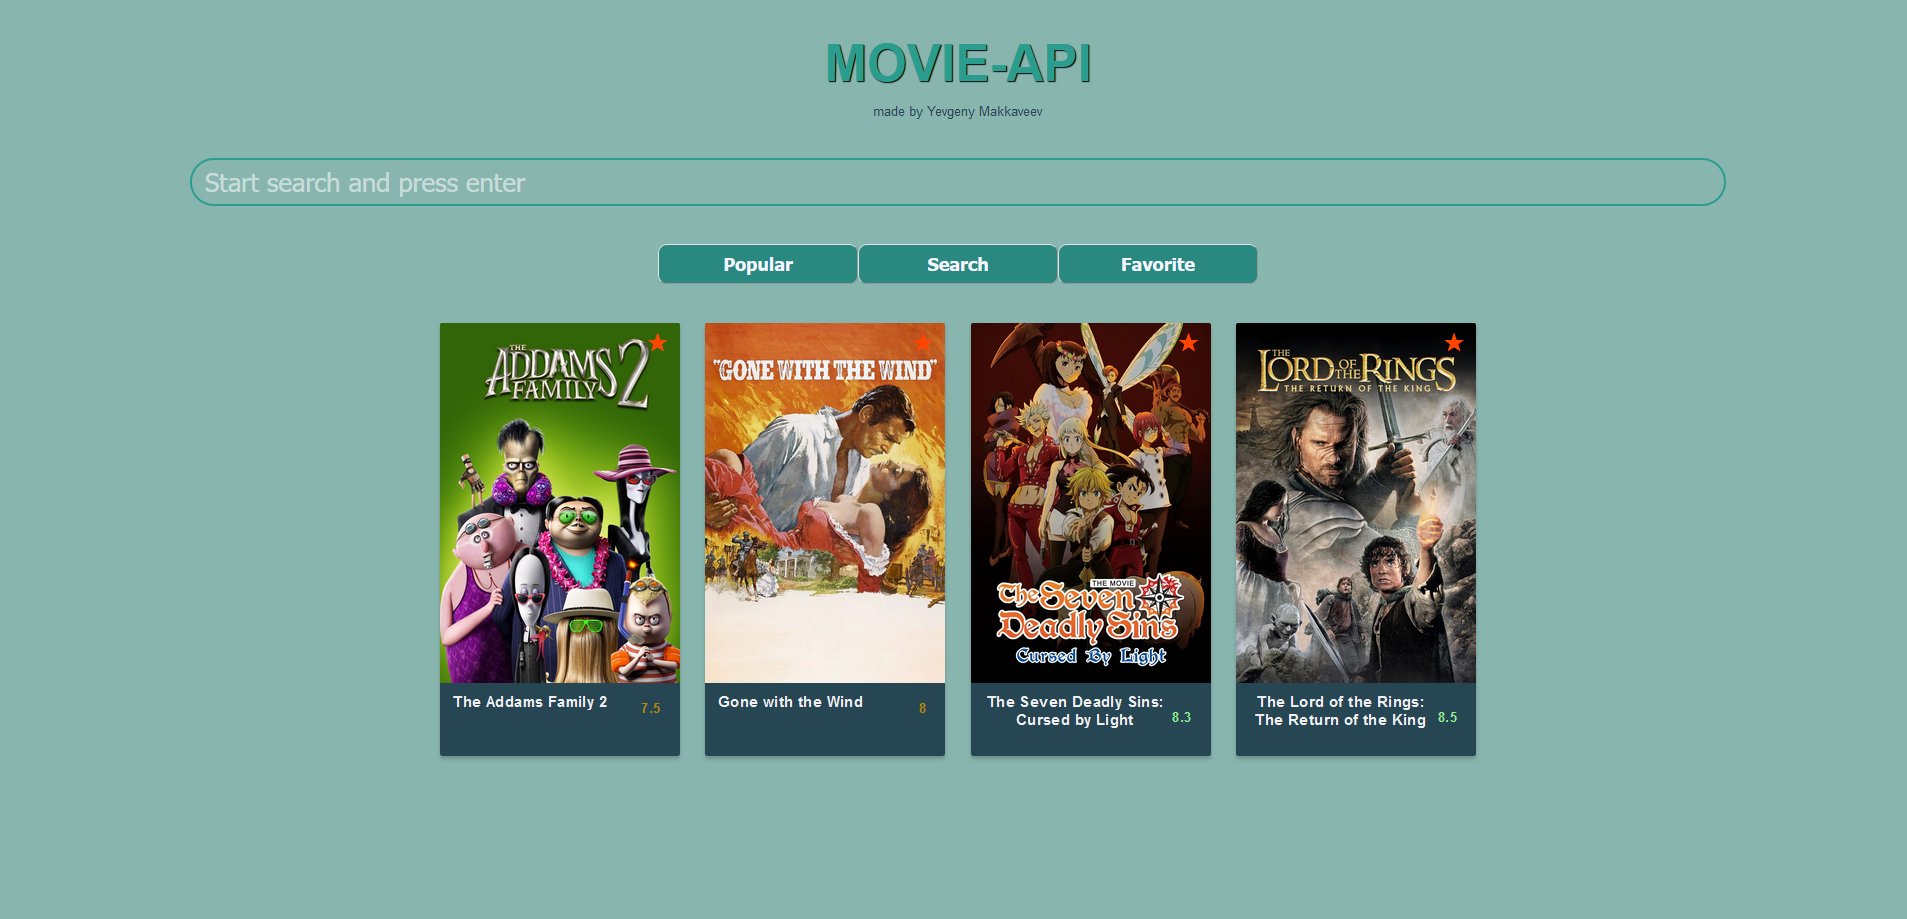
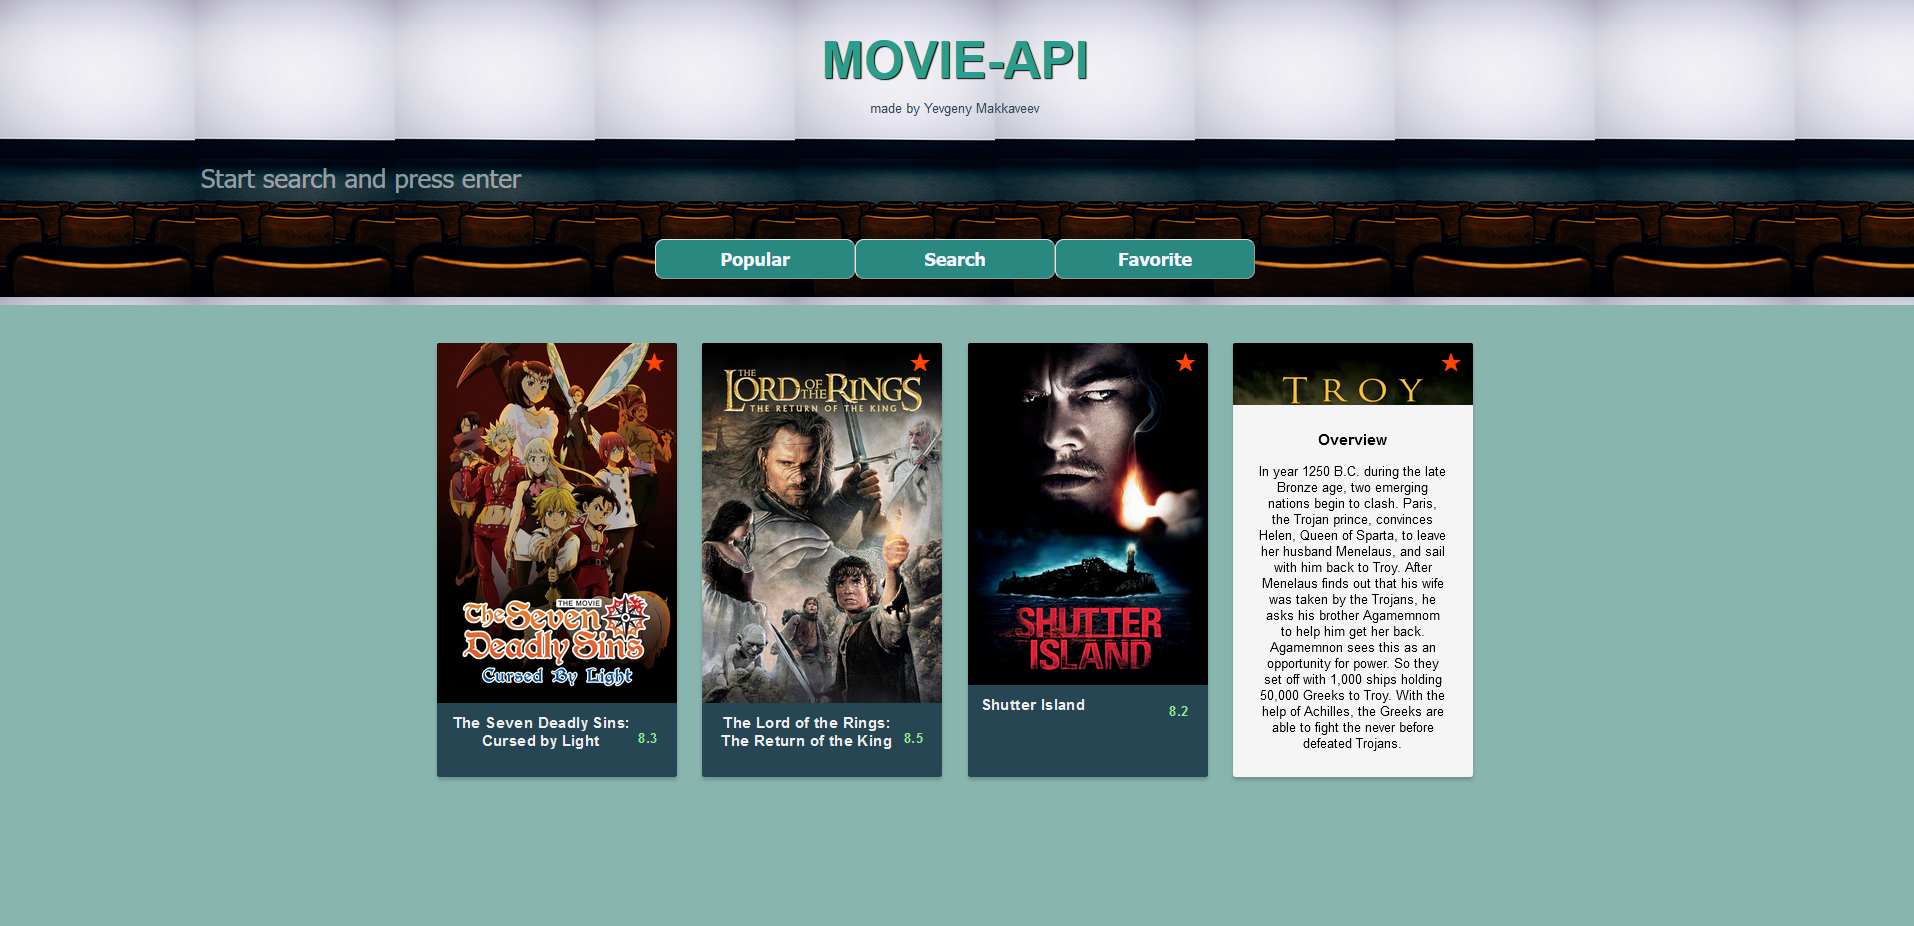
bugfixes and more readme info

diff --git a/src/store/movieStore.ts b/src/store/movieStore.ts
@@ -69,14 +69,23 @@ class DocumentVersionStore {
 
   setFavorite(movie: IMoviePreview, status: boolean) {
     const { favorite } = this;
-    if (status&&!this.isInFavorite(movie.id)) {
+    if (status && !this.isInFavorite(movie.id)) {
       const res: IMoviePreview[] = [...favorite, movie];
       this.favorite = res;
     } else if (!status) {
-      const res = favorite.filter((el) => el.id !== movie.id);
-      this.favorite = res;
+     this.removeFavorite(movie.id)
     }
-    localStorage.setItem("movie-api-from-YM", JSON.stringify(this.favorite));
+    this.saveFavorite()
+  }
+
+  removeFavorite(id: number) {
+    const { favorite } = this;
+    const res = favorite.filter((el) => el.id !== id);
+    this.favorite = res;
+  }
+
+  saveFavorite(){
+  localStorage.setItem("movie-api-from-YM", JSON.stringify(this.favorite));
   }
 
   getFavorite() {
@@ -90,6 +99,13 @@ class DocumentVersionStore {
       this.searchToggleFavorite(id, status);
     if (moviesPopular.some((el) => el.id === id))
       this.popularToggleFavorite(id, status);
+    if (
+      !moviesPopular.some((el) => el.id === id) &&
+      !moviesSearch.some((el) => el.id === id)
+    ) {
+      this.removeFavorite(id)
+      this.saveFavorite()
+    }
   }
 
   findIndex(arr: IMoviePreview[], id: number) {
@@ -114,7 +130,8 @@ class DocumentVersionStore {
     this.moviesSearch[index] = res;
   }
 
-  resetSearchPages() {
+  resetSearch() {
+    this.moviesSearch=[]
     this.pageSearch = 1;
   }
 

diff --git a/src/components/Header/Header.tsx b/src/components/Header/Header.tsx
@@ -9,21 +9,21 @@ import "./Header.scss";
 
 
 const Header: React.FC = observer(() => {
-  const { fetchSearch, resetSearchPages } = movieStore;
+  const { fetchSearch, resetSearch } = movieStore;
   const [search, setSearch] = useState("");
   const history = useHistory();
 
   const onSearch = (e: React.FormEvent<HTMLFormElement>) => {
     if (!search) return;
     e.preventDefault();
-    resetSearchPages();
+    resetSearch();
     fetchSearch(search);
     history.push(`/search`);
     setSearch("");
   };
 
   return (
-    <div>
+    <div className='head-app'>
       <header>
         <h1 className="title">MOVIE-API</h1>
         <div><a

diff --git a/src/components/Header/SearchBar/SearchBar.scss b/src/components/Header/SearchBar/SearchBar.scss
@@ -4,7 +4,8 @@
  border: 2px solid $primary-color;
  border-radius: 50px;
  font-size: 2rem;
- border: 0.1em solid $secondary-color;
+ border: none;
+ border: 0.01em solid transparent;
  padding: 0.5rem 1rem;
  width: 80vw;
  color: white;
@@ -13,5 +14,6 @@
  &:focus {
   outline: none;
   background-color: $primary-color;
+   border: 0.01em solid $secondary-color;
  }
 }

diff --git a/src/components/Header/Header.scss b/src/components/Header/Header.scss
@@ -1,5 +1,11 @@
 @import "../../style/color.scss";
 
+.head-app {
+  background-image: url('../../style/img/bg1.jpg');
+  width: 100%;
+  padding-bottom: 2rem;
+}
+
 .title {
   font-size: 4em;
   font-weight: 700;

diff --git a/README.md b/README.md
@@ -3,6 +3,7 @@
 Live demo here [link](https://boring-archimedes-34337d.netlify.app/)
 
 ![popular](src/style/readme/popular.png)
+![more](src/style/readme/more.png)
 ![single-movie](src/style/readme/movie-screen.png)
 ![favorite](src/style/readme/favorite.png)
 
